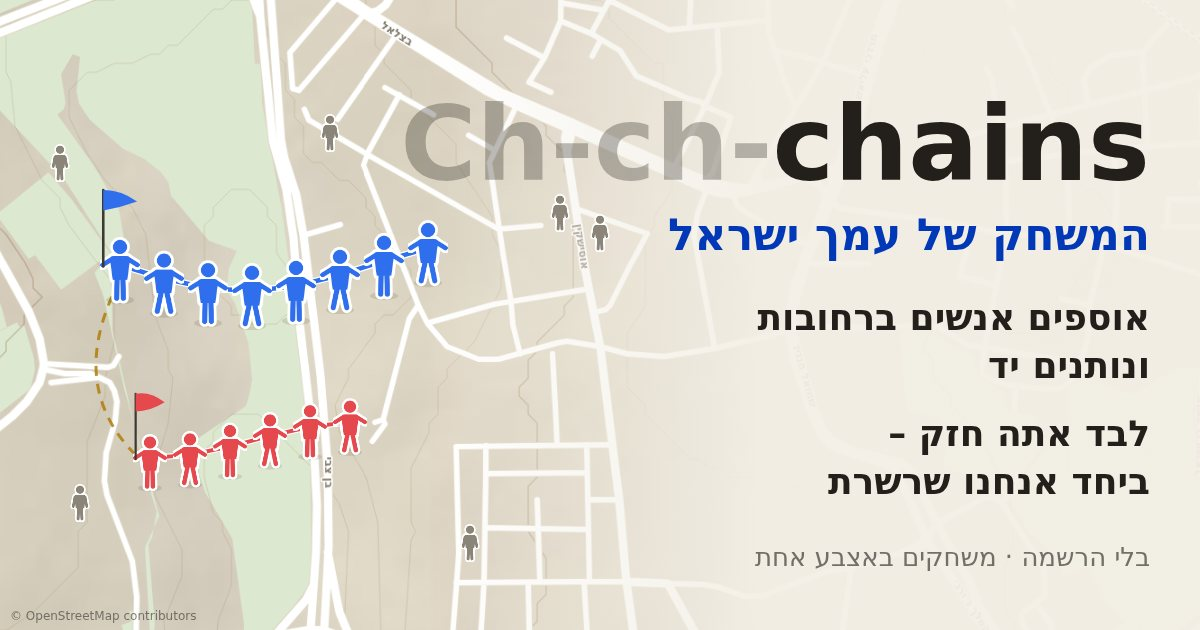
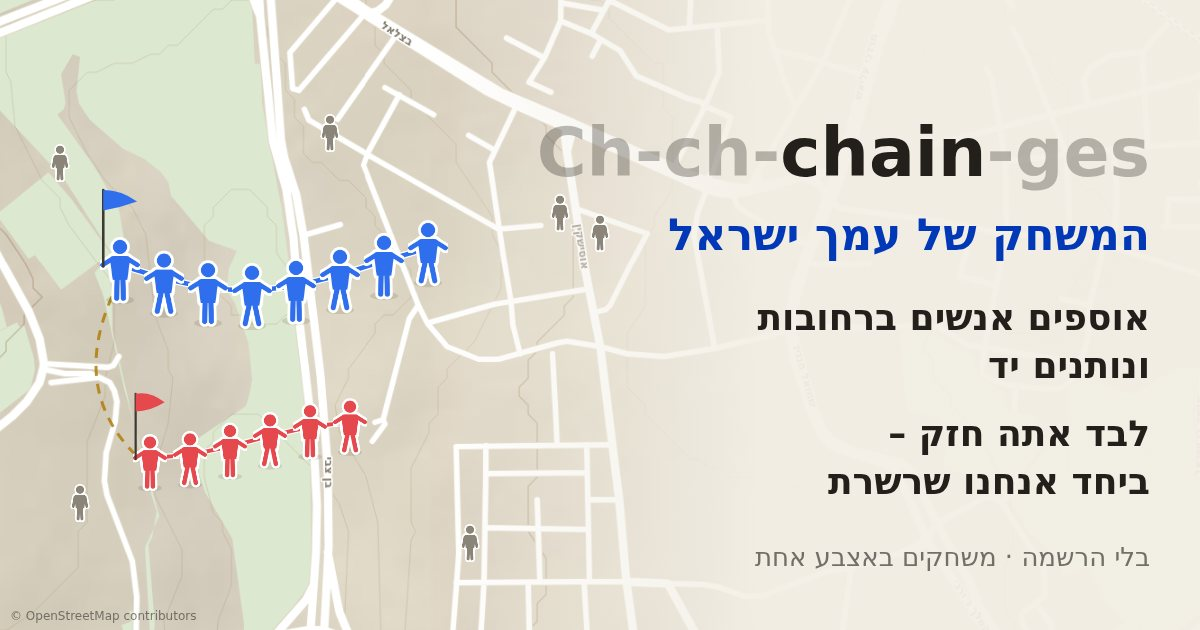
Rename the game to Ch-ch-chain-ges
Bowie's stutter with a chain inside it. The name and the wordmark live in
src/brand.js: the page logo, title and manifest, the share card and text,
and the link preview image all come from there. The home-screen colours
now match the light page. Links keep the chchchains.onrender.com address.

Claude-Session: https://claude.ai/code/session_016c9UVDMnTSfjecjMFjy4hW

Changed region(s): [[0.3392, 0.1508, 0.9558, 0.3016]]

diff --git a/docs/index.html b/docs/index.html
@@ -3,20 +3,21 @@
 <head>
 <meta charset="utf-8">
 <meta name="viewport" content="width=device-width, initial-scale=1, viewport-fit=cover">
-<meta http-equiv="Content-Security-Policy" content="default-src 'self'; script-src 'sha256-gXo9IGk5DQuIUWkCK1TQOzU6sBa2VK0J6Tuko5iafT8=' 'sha256-EyDt0LgAwW2uLV1K6Ow3YCGZG14NwkR8Gm2hkx9rYh0='; style-src 'sha256-2iqD5HBGyh5BhZ8GjtUzlzDFaZbPYmEJP5Hqg7jX/10='; img-src 'self' data: blob:; connect-src 'self' wss://chchchains-server.onrender.com https://chchchains-server.onrender.com; manifest-src 'self'; base-uri 'none'; object-src 'none'; form-action 'none'">
+<meta http-equiv="Content-Security-Policy" content="default-src 'self'; script-src 'sha256-gXo9IGk5DQuIUWkCK1TQOzU6sBa2VK0J6Tuko5iafT8=' 'sha256-kNn73hwyxQKmkUeCfPsLInlQ0G63PiE5IZD+LsUKLHY='; style-src 'sha256-lXMDbO2sjd+O7F+REwfgMmorVIAN/Q2I0IKf2Ub++qM='; img-src 'self' data: blob:; connect-src 'self' wss://chchchains-server.onrender.com https://chchchains-server.onrender.com; manifest-src 'self'; base-uri 'none'; object-src 'none'; form-action 'none'">
 <link rel="manifest" href="manifest.webmanifest">
 <link rel="icon" type="image/png" href="icon-192.png">
 <link rel="apple-touch-icon" href="apple-touch-icon.png">
 <meta name="apple-mobile-web-app-capable" content="yes">
+<meta name="apple-mobile-web-app-title" content="Ch-ch-chain-ges">
 <meta property="og:type" content="website">
-<meta property="og:title" content="Ch-ch-chains – המשחק של עמך ישראל">
+<meta property="og:title" content="Ch-ch-chain-ges – המשחק של עמך ישראל">
 <meta property="og:description" content="משחק רשת בטלפון ברחובות האמיתיים של תל אביב, ירושלים וחיפה: אוספים אנשים, נותנים יד ומתארכים. לבד אתה חזק – ביחד אנחנו שרשרת. בלי הרשמה.">
 <meta property="og:url" content="https://chchchains.onrender.com/">
 <meta property="og:image" content="https://chchchains.onrender.com/og.jpg">
 <meta property="og:image:width" content="1200">
 <meta property="og:image:height" content="630">
 <meta name="twitter:card" content="summary_large_image">
-<title>Ch-ch-chains – המשחק של עמך ישראל</title>
+<title>Ch-ch-chain-ges – המשחק של עמך ישראל</title>
 <meta name="description" content="משחק רשת בטלפון: אוספים אנשים ברחובות, נותנים יד ומתארכים. לבד אתה חזק – ביחד אנחנו שרשרת. בלי הרשמה.">
 <meta name="theme-color" content="#f3efe6">
 <style>
@@ -99,7 +100,7 @@ a { color: inherit; }
 .card { width: min(400px, 100%); text-align: center; display: grid; gap: 13px; padding: 20px 18px;
   background: var(--card); border: 1px solid var(--line); border-radius: 22px; box-shadow: var(--shadow); box-sizing: border-box; }
 #mark { width: 230px; height: 70px; justify-self: center; margin-bottom: -8px; }
-.logo { font-size: clamp(38px, 12vw, 62px); font-weight: 900; line-height: 1.05; margin: 0; letter-spacing: -1.5px;
+.logo { font-size: clamp(27px, 9.2vw, 54px); font-weight: 900; line-height: 1.05; margin: 0; letter-spacing: -1.5px;
   direction: ltr; white-space: nowrap; color: var(--ink); }
 .logo .st { color: rgba(35, 32, 27, 0.3); }
 .brand { margin: -8px 0 0; font-size: 17px; font-weight: 800; color: var(--blue); }
@@ -158,7 +159,7 @@ a { color: inherit; }
 <section id="start" class="screen" aria-labelledby="logo">
   <div class="card">
     <canvas id="mark" aria-hidden="true"></canvas>
-    <h1 id="logo" class="logo"><span class="st">Ch-ch-</span>chains</h1>
+    <h1 id="logo" class="logo"><span class="st">Ch-ch-</span>chain<span class="st">-ges</span></h1>
     <p id="brand" class="brand">המשחק של עמך ישראל</p>
     <p id="city"></p>
     <p class="tag">אוספים אנשים ברחובות, נותנים יד ומתארכים.<br><strong>לבד אתה חזק – ביחד אנחנו שרשרת.</strong></p>
@@ -209,8 +210,48 @@ a { color: inherit; }
 (() => {
 'use strict';
 const __m = {};
+__m.brand = (() => {
+// Ch-ch-chain-ges — the name and the wordmark. The name stutters like Bowie's "Ch-ch-changes", with chains inside.
+const NAME = 'Ch-ch-chain-ges';
+const SLUG = 'chchchain-ges';
+/** The wordmark in parts: the stutter and the ending are faint, "chain" is solid. */
+const WORDMARK = [
+  ['Ch-ch-', 0.3],
+  ['chain', 1],
+  ['-ges', 0.3],
+];
+
+/**
+ * Draws the wordmark on a 2D canvas with its baseline at y. align: where x is ('left' | 'center' | 'right').
+ * The type shrinks to fit maxWidth. Returns the font size used.
+ */
+function drawWordmark(g, x, y, size, { align = 'center', maxWidth = Infinity, ink = '#23201b', weight = 900 } = {}) {
+  const font = (px) => `${weight} ${px}px system-ui, -apple-system, "Segoe UI", Arial, sans-serif`;
+  g.save();
+  g.direction = 'ltr';
+  g.textAlign = 'left';
+  g.font = font(size);
+  let width = g.measureText(NAME).width;
+  if (width > maxWidth) {
+    size = Math.floor((size * maxWidth) / width);
+    g.font = font(size);
+    width = g.measureText(NAME).width;
+  }
+  let at = align === 'center' ? x - width / 2 : align === 'right' ? x - width : x;
+  g.fillStyle = ink;
+  for (const [part, alpha] of WORDMARK) {
+    g.globalAlpha = alpha;
+    g.fillText(part, at, y);
+    at += g.measureText(part).width;
+  }
+  g.restore();
+  return size;
+}
+
+return { NAME, SLUG, WORDMARK, drawWordmark };
+})();
 __m.sim = (() => {
-// Ch-ch-chains — the world simulation. Pure logic with no DOM, so the same code runs in the browser (solo play with
+// Ch-ch-chain-ges — the world simulation. Pure logic with no DOM, so the same code runs in the browser (solo play with
 // labelled bots) and on the server (authoritative multiplayer rooms).
 
 const C = {
@@ -882,7 +923,7 @@ function botName() {
 return { C, COLORS, SPARK_COLORS, NOUNS, ADJS, PLACES, randomName, lengthFor, radiusFor, scoreOf, angleDiff, World, botName };
 })();
 __m.streets = (() => {
-// Ch-ch-chains — where people turn up: random spots on a city's streets (on the pavement, a few metres to either
+// Ch-ch-chain-ges — where people turn up: random spots on a city's streets (on the pavement, a few metres to either
 // side of the road's centre line). The same code places people on the server and in offline play.
 
 const WEIGHT = [1.5, 1.25, 1]; // main roads are a little busier
@@ -1094,7 +1135,7 @@ function clamp16(x) {
 return { FLAG_BOOST, FLAG_BOT, FLAG_OFFERS_ME, FLAG_I_OFFERED, FLAG_FULL, FLAG_CANDIDATE, encodeSnapshot, decodeSnapshot };
 })();
 __m.net = (() => {
-// Ch-ch-chains — online play. Connects to the game server, keeps a copy of the room around the player and draws it a
+// Ch-ch-chain-ges — online play. Connects to the game server, keeps a copy of the room around the player and draws it a
 // little in the past, so chains glide smoothly between the server's 15 snapshots a second. Everything a
 // snapshot or message changes is applied at the drawn moment, so sparks vanish when the head reaches them. The delay
 // adapts to the connection: about 90 ms on a steady line, more when snapshots arrive unevenly.
@@ -1603,7 +1644,7 @@ function connectOnline(url, hooks = {}) {
 return { RemoteWorld, connectOnline };
 })();
 __m.map = (() => {
-// Ch-ch-chains — city maps. Loads docs/maps/<city>.json (streets, water, parks, contours, labels in metres around
+// Ch-ch-chain-ges — city maps. Loads docs/maps/<city>.json (streets, water, parks, contours, labels in metres around
 // the city centre) and its terrain image, and draws them under the game: the static layers are painted once into
 // tiles and reused while the camera moves; labels are drawn on top every frame so they never get cut at a tile edge.
 
@@ -1925,7 +1966,7 @@ function ringPath(g, a) {
 return { MAP_STYLE, loadCity, loadCityIndex, CityMap };
 })();
 __m.people = (() => {
-// Ch-ch-chains — the people. Flat paper-doll figures with a white cut-out edge: in a chain they reach out to hold
+// Ch-ch-chain-ges — the people. Flat paper-doll figures with a white cut-out edge: in a chain they reach out to hold
 // hands; on the street they stand with their arms down. Each colour and pose is drawn once and reused.
 
 const FIG = {
@@ -2040,7 +2081,7 @@ function drawFlag(g, x, y, hp, color, dir, t, outline = false) {
 return { FIG, figure, drawFlag };
 })();
 __m.audio = (() => {
-// Ch-ch-chains — music and sound, synthesised with Web Audio (no audio files). An original bouncy synth-pop
+// Ch-ch-chain-ges — music and sound, synthesised with Web Audio (no audio files). An original bouncy synth-pop
 // loop in D minor at 116 BPM whose layers follow the game: calm in the menus; drums and arpeggios while you play;
 // the lead melody once your chain grows; extra hi-hats while you run; bells when you hold hands.
 // Browsers only allow sound after a tap, so nothing plays until unlock() is called from one.
@@ -2402,7 +2443,7 @@ function createAudio({ muted = false, context = null } = {}) {
 return { createAudio };
 })();
 __m.client = (() => {
-// Ch-ch-chains — the browser client: the city map, the human chains, touch/mouse/keyboard input, screens and
+// Ch-ch-chain-ges — the browser client: the city map, the human chains, touch/mouse/keyboard input, screens and
 // sharing. Offline play simulates the world here with labelled bots; online play (net.js) draws the server's room.
 const { World, C, COLORS, radiusFor, scoreOf, randomName, botName } = __m.sim;
 const { connectOnline } = __m.net;
@@ -2410,6 +2451,7 @@ const { loadCity, loadCityIndex, MAP_STYLE } = __m.map;
 const { streetSpawner } = __m.streets;
 const { figure, drawFlag, FIG } = __m.people;
 const { createAudio } = __m.audio;
+const { NAME, SLUG, drawWordmark } = __m.brand;
 const CFG = Object.assign(
   { server: '', brand: 'המשחק של עמך ישראל', publisher: '', joinUrl: '', shareUrl: '', maps: 'maps/' },
   globalThis.CHAIN_CONFIG || {},
@@ -3323,8 +3365,7 @@ function cardCanvas() {
   g.textAlign = 'center';
   g.direction = 'ltr';
   g.fillStyle = INK;
-  g.font = '900 124px system-ui, sans-serif';
-  g.fillText('Ch-ch-chains', 540, 210);
+  drawWordmark(g, 540, 210, 124, { maxWidth: 980, ink: INK });
   g.direction = 'rtl';
   if (CFG.brand) {
     g.font = '800 46px system-ui, sans-serif';
@@ -3374,13 +3415,13 @@ function cardCanvas() {
 }
 if (statsEl) globalThis.__chainCard = () => cardCanvas().toDataURL('image/png'); // for checking the card while tuning
 async function share() {
-  const text = `הבאתי ${game.best.maxScore.toLocaleString('he-IL')} אנשים לשרשרת ב-Ch-ch-chains${
+  const text = `הבאתי ${game.best.maxScore.toLocaleString('he-IL')} אנשים לשרשרת ב-${NAME}${
     game.best.hands ? ` והחזקתי ידיים עם ${game.best.hands}` : ''
   } 🔗 ביחד אנחנו שרשרת – נראה אתכם:`;
   const url = shareUrl();
   try {
     const blob = await new Promise((res) => cardCanvas().toBlob(res, 'image/png'));
-    const file = blob ? new File([blob], 'chchchains.png', { type: 'image/png' }) : null;
+    const file = blob ? new File([blob], `${SLUG}.png`, { type: 'image/png' }) : null;
     if (file && navigator.canShare?.({ files: [file] })) {
       await navigator.share({ files: [file], text: `${text} ${url}` });
       return;

diff --git a/src/client.js b/src/client.js
@@ -1,4 +1,4 @@
-// Ch-ch-chains — the browser client: the city map, the human chains, touch/mouse/keyboard input, screens and
+// Ch-ch-chain-ges — the browser client: the city map, the human chains, touch/mouse/keyboard input, screens and
 // sharing. Offline play simulates the world here with labelled bots; online play (net.js) draws the server's room.
 import { World, C, COLORS, radiusFor, scoreOf, randomName, botName } from './sim.js';
 import { connectOnline } from './net.js';
@@ -6,6 +6,7 @@ import { loadCity, loadCityIndex, MAP_STYLE } from './map.js';
 import { streetSpawner } from './streets.js';
 import { figure, drawFlag, FIG } from './people.js';
 import { createAudio } from './audio.js';
+import { NAME, SLUG, drawWordmark } from './brand.js';
 
 const CFG = Object.assign(
   { server: '', brand: 'המשחק של עמך ישראל', publisher: '', joinUrl: '', shareUrl: '', maps: 'maps/' },
@@ -920,8 +921,7 @@ function cardCanvas() {
   g.textAlign = 'center';
   g.direction = 'ltr';
   g.fillStyle = INK;
-  g.font = '900 124px system-ui, sans-serif';
-  g.fillText('Ch-ch-chains', 540, 210);
+  drawWordmark(g, 540, 210, 124, { maxWidth: 980, ink: INK });
   g.direction = 'rtl';
   if (CFG.brand) {
     g.font = '800 46px system-ui, sans-serif';
@@ -971,13 +971,13 @@ function cardCanvas() {
 }
 if (statsEl) globalThis.__chainCard = () => cardCanvas().toDataURL('image/png'); // for checking the card while tuning
 async function share() {
-  const text = `הבאתי ${game.best.maxScore.toLocaleString('he-IL')} אנשים לשרשרת ב-Ch-ch-chains${
+  const text = `הבאתי ${game.best.maxScore.toLocaleString('he-IL')} אנשים לשרשרת ב-${NAME}${
     game.best.hands ? ` והחזקתי ידיים עם ${game.best.hands}` : ''
   } 🔗 ביחד אנחנו שרשרת – נראה אתכם:`;
   const url = shareUrl();
   try {
     const blob = await new Promise((res) => cardCanvas().toBlob(res, 'image/png'));
-    const file = blob ? new File([blob], 'chchchains.png', { type: 'image/png' }) : null;
+    const file = blob ? new File([blob], `${SLUG}.png`, { type: 'image/png' }) : null;
     if (file && navigator.canShare?.({ files: [file] })) {
       await navigator.share({ files: [file], text: `${text} ${url}` });
       return;

diff --git a/src/page.html b/src/page.html
@@ -1,4 +1,4 @@
-<title>Ch-ch-chains</title>
+<title>Ch-ch-chain-ges</title>
 <meta name="description" content="משחק רשת בטלפון: אוספים אנשים ברחובות, נותנים יד ומתארכים. לבד אתה חזק – ביחד אנחנו שרשרת. בלי הרשמה.">
 <meta name="theme-color" content="#f3efe6">
 <style>
@@ -81,7 +81,7 @@ a { color: inherit; }
 .card { width: min(400px, 100%); text-align: center; display: grid; gap: 13px; padding: 20px 18px;
   background: var(--card); border: 1px solid var(--line); border-radius: 22px; box-shadow: var(--shadow); box-sizing: border-box; }
 #mark { width: 230px; height: 70px; justify-self: center; margin-bottom: -8px; }
-.logo { font-size: clamp(38px, 12vw, 62px); font-weight: 900; line-height: 1.05; margin: 0; letter-spacing: -1.5px;
+.logo { font-size: clamp(27px, 9.2vw, 54px); font-weight: 900; line-height: 1.05; margin: 0; letter-spacing: -1.5px;
   direction: ltr; white-space: nowrap; color: var(--ink); }
 .logo .st { color: rgba(35, 32, 27, 0.3); }
 .brand { margin: -8px 0 0; font-size: 17px; font-weight: 800; color: var(--blue); }
@@ -139,7 +139,7 @@ a { color: inherit; }
 <section id="start" class="screen" aria-labelledby="logo">
   <div class="card">
     <canvas id="mark" aria-hidden="true"></canvas>
-    <h1 id="logo" class="logo"><span class="st">Ch-ch-</span>chains</h1>
+    <h1 id="logo" class="logo"><span class="st">Ch-ch-</span>chain<span class="st">-ges</span></h1>
     <p id="brand" class="brand">המשחק של עמך ישראל</p>
     <p id="city"></p>
     <p class="tag">אוספים אנשים ברחובות, נותנים יד ומתארכים.<br><strong>לבד אתה חזק – ביחד אנחנו שרשרת.</strong></p>

diff --git a/src/brand.js b/src/brand.js
@@ -1,0 +1,36 @@
+// Ch-ch-chain-ges — the name and the wordmark. The name stutters like Bowie's "Ch-ch-changes", with chains inside.
+export const NAME = 'Ch-ch-chain-ges';
+export const SLUG = 'chchchain-ges';
+/** The wordmark in parts: the stutter and the ending are faint, "chain" is solid. */
+export const WORDMARK = [
+  ['Ch-ch-', 0.3],
+  ['chain', 1],
+  ['-ges', 0.3],
+];
+
+/**
+ * Draws the wordmark on a 2D canvas with its baseline at y. align: where x is ('left' | 'center' | 'right').
+ * The type shrinks to fit maxWidth. Returns the font size used.
+ */
+export function drawWordmark(g, x, y, size, { align = 'center', maxWidth = Infinity, ink = '#23201b', weight = 900 } = {}) {
+  const font = (px) => `${weight} ${px}px system-ui, -apple-system, "Segoe UI", Arial, sans-serif`;
+  g.save();
+  g.direction = 'ltr';
+  g.textAlign = 'left';
+  g.font = font(size);
+  let width = g.measureText(NAME).width;
+  if (width > maxWidth) {
+    size = Math.floor((size * maxWidth) / width);
+    g.font = font(size);
+    width = g.measureText(NAME).width;
+  }
+  let at = align === 'center' ? x - width / 2 : align === 'right' ? x - width : x;
+  g.fillStyle = ink;
+  for (const [part, alpha] of WORDMARK) {
+    g.globalAlpha = alpha;
+    g.fillText(part, at, y);
+    at += g.measureText(part).width;
+  }
+  g.restore();
+  return size;
+}

diff --git a/tools/art/art.html b/tools/art/art.html
@@ -16,6 +16,7 @@
 import { loadCity, MAP_STYLE } from '../../src/map.js';
 import { figure, drawFlag, FIG } from '../../src/people.js';
 import { COLORS } from '../../src/sim.js';
+import { drawWordmark } from '../../src/brand.js';
 
 const INK = '#23201b';
 const BLUE = '#0038b8';
@@ -83,16 +84,8 @@ function people(g, spots, hp) {
   g.restore();
   chain(g, a, COLORS[0], 70, -1, 0.3);
   chain(g, b, COLORS[1], 60, -1, 1.4);
+  drawWordmark(g, 1150, 176, 96, { align: 'right', maxWidth: 620, ink: INK });
   g.textAlign = 'right';
-  g.direction = 'ltr';
-  g.font = '900 104px system-ui, -apple-system, "Segoe UI", Arial, sans-serif';
-  g.fillStyle = 'rgba(35,32,27,0.3)';
-  const full = 'Ch-ch-chains';
-  const tail = 'chains';
-  const wTail = g.measureText(tail).width;
-  g.fillText('Ch-ch-', 1150 - wTail, 180);
-  g.fillStyle = INK;
-  g.fillText(tail, 1150, 180);
   g.direction = 'rtl';
   g.font = '800 44px system-ui, sans-serif';
   g.fillStyle = BLUE;
@@ -112,7 +105,6 @@ function people(g, spots, hp) {
   g.font = '12px system-ui, sans-serif';
   g.fillStyle = 'rgba(35,32,27,0.55)';
   g.fillText('© OpenStreetMap contributors', 10, 620);
-  void full;
 }
 
 // ------------------------------------------------------------------ app icon, 512 × 512 (safe for round masks)

diff --git a/src/net.js b/src/net.js
@@ -1,4 +1,4 @@
-// Ch-ch-chains — online play. Connects to the game server, keeps a copy of the room around the player and draws it a
+// Ch-ch-chain-ges — online play. Connects to the game server, keeps a copy of the room around the player and draws it a
 // little in the past, so chains glide smoothly between the server's 15 snapshots a second. Everything a
 // snapshot or message changes is applied at the drawn moment, so sparks vanish when the head reaches them. The delay
 // adapts to the connection: about 90 ms on a steady line, more when snapshots arrive unevenly.

diff --git a/src/audio.js b/src/audio.js
@@ -1,4 +1,4 @@
-// Ch-ch-chains — music and sound, synthesised with Web Audio (no audio files). An original bouncy synth-pop
+// Ch-ch-chain-ges — music and sound, synthesised with Web Audio (no audio files). An original bouncy synth-pop
 // loop in D minor at 116 BPM whose layers follow the game: calm in the menus; drums and arpeggios while you play;
 // the lead melody once your chain grows; extra hi-hats while you run; bells when you hold hands.
 // Browsers only allow sound after a tap, so nothing plays until unlock() is called from one.

diff --git a/src/map.js b/src/map.js
@@ -1,4 +1,4 @@
-// Ch-ch-chains — city maps. Loads docs/maps/<city>.json (streets, water, parks, contours, labels in metres around
+// Ch-ch-chain-ges — city maps. Loads docs/maps/<city>.json (streets, water, parks, contours, labels in metres around
 // the city centre) and its terrain image, and draws them under the game: the static layers are painted once into
 // tiles and reused while the camera moves; labels are drawn on top every frame so they never get cut at a tile edge.
 

diff --git a/src/streets.js b/src/streets.js
@@ -1,4 +1,4 @@
-// Ch-ch-chains — where people turn up: random spots on a city's streets (on the pavement, a few metres to either
+// Ch-ch-chain-ges — where people turn up: random spots on a city's streets (on the pavement, a few metres to either
 // side of the road's centre line). The same code places people on the server and in offline play.
 
 const WEIGHT = [1.5, 1.25, 1]; // main roads are a little busier

diff --git a/src/people.js b/src/people.js
@@ -1,4 +1,4 @@
-// Ch-ch-chains — the people. Flat paper-doll figures with a white cut-out edge: in a chain they reach out to hold
+// Ch-ch-chain-ges — the people. Flat paper-doll figures with a white cut-out edge: in a chain they reach out to hold
 // hands; on the street they stand with their arms down. Each colour and pose is drawn once and reused.
 
 export const FIG = {

diff --git a/src/sim.js b/src/sim.js
@@ -1,4 +1,4 @@
-// Ch-ch-chains — the world simulation. Pure logic with no DOM, so the same code runs in the browser (solo play with
+// Ch-ch-chain-ges — the world simulation. Pure logic with no DOM, so the same code runs in the browser (solo play with
 // labelled bots) and on the server (authoritative multiplayer rooms).
 
 export const C = {

diff --git a/README.md b/README.md
@@ -1,4 +1,4 @@
-# Ch-ch-chains 🔗 המשחק של עמך ישראל
+# Ch-ch-chain-ges 🔗 המשחק של עמך ישראל
 
 משחק רשת לטלפון: שרשראות אנושיות ברחובות האמיתיים של תל אביב, ירושלים וחיפה. אוספים אנשים, נותנים יד ומתארכים.
 **לבד אתה חזק – ביחד אנחנו שרשרת.**
@@ -102,6 +102,6 @@ node server.mjs     # http://localhost:3000
 
 ---
 
-השם הוא מחווה לגמגום המפורסם בשיר ״Changes״ של דייוויד בואי.
+השם: הגמגום המפורסם ״Ch-ch-changes״ מהשיר של דייוויד בואי, עם שרשרת (chain) באמצע.
 
 English: a free, open-source (MIT) multiplayer phone game. Human chains walk the real streets of Tel Aviv, Jerusalem and Haifa (OpenStreetMap, SRTM contours): pick up people, give a hand to link chains, grow together. Zero-dependency Node server with a hand-written WebSocket layer, delta-compressed snapshots and client-side interpolation; the same simulation runs in the browser for offline play with labelled bots.
